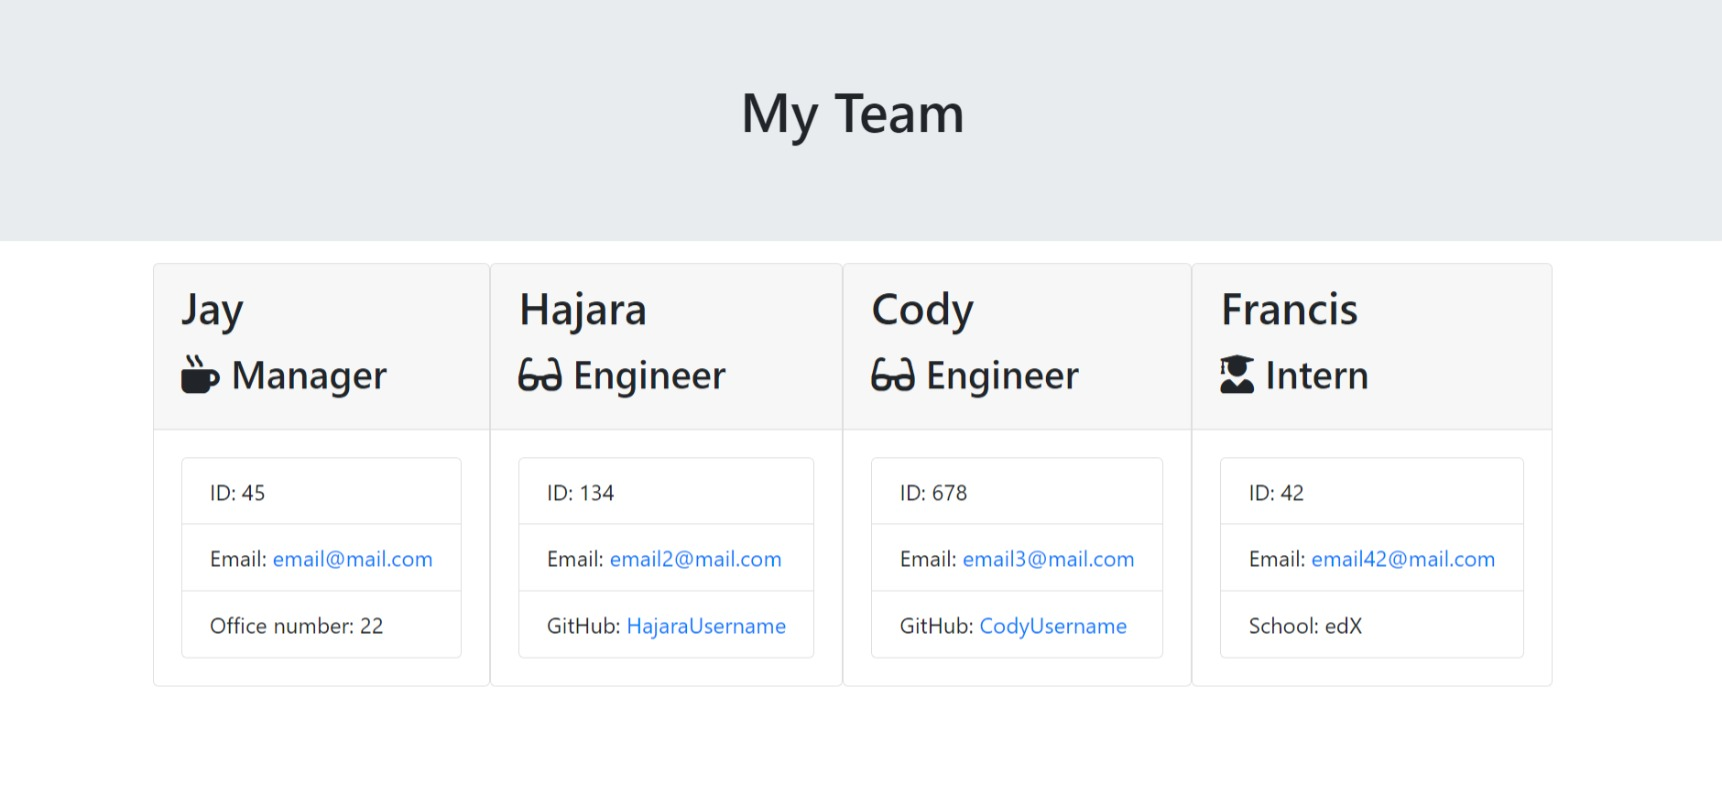
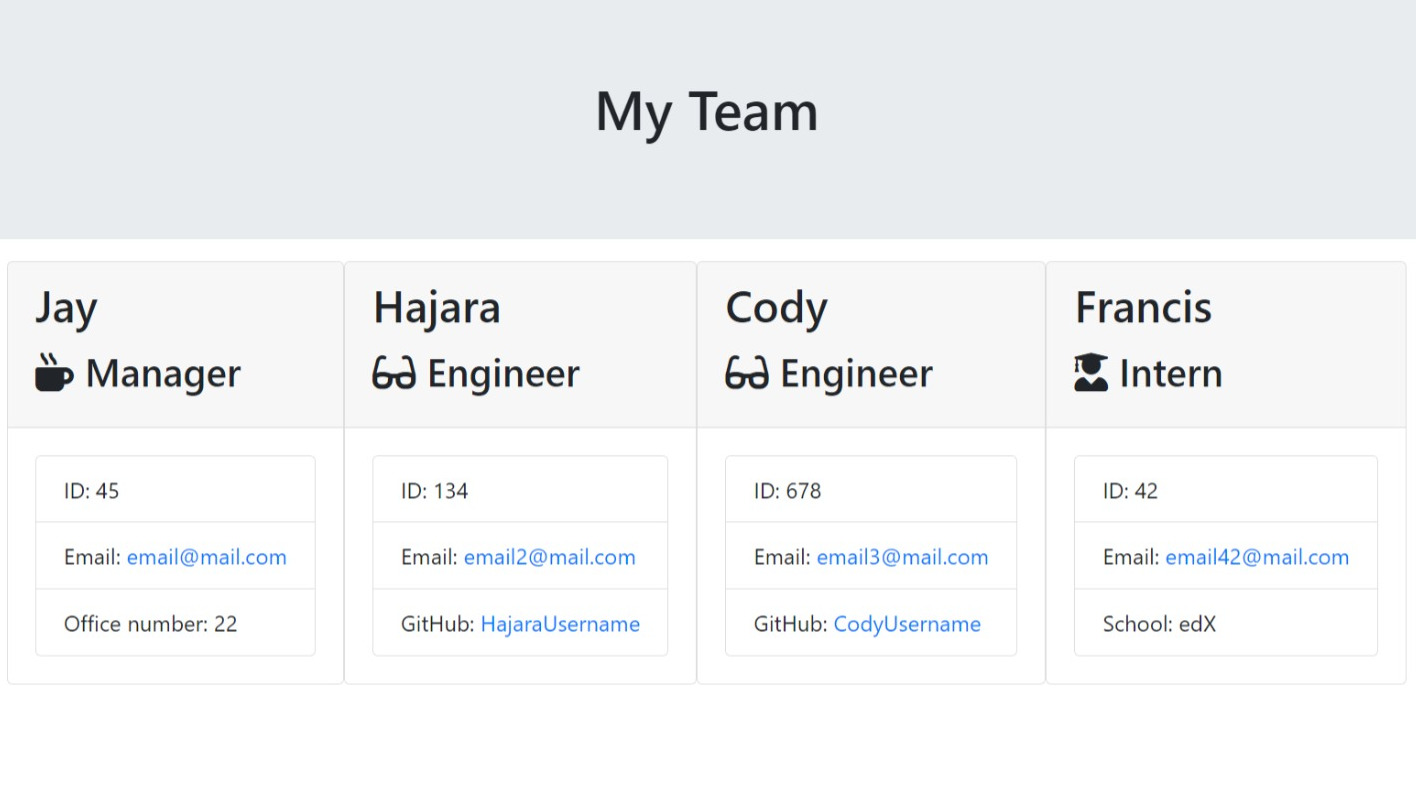
Added some projects to the portfolio page.

diff --git a/src/components/Card/index.jsx b/src/components/Card/index.jsx
@@ -3,11 +3,11 @@ import "./style.css";
 
 const styles = {
   card: {
-    margin: 20,
+    margin: 5,
     background: "#e8eaf6",
   },
   heading: {
-    background: "#9373BA",
+    background: "",
     minHeight: 50,
     lineHeight: 3.5,
     fontSize: "1.2rem",
@@ -15,30 +15,40 @@ const styles = {
     padding: "0 20px"
   },
   content: {
-    padding: 20
+    padding: 5
   }
 };
 
 function Card(props) {
   return (
-<div className="cards col-lg-4 col-md-4 col-sm-12">
+<div className="cards">
     <div className="card">
-        <div className="img-container">
-        <img
+        <div className="img-container">      
+        <img className="card-img-top"
         alt= {props.title}
         src= {props.image}
         />
         </div>
-      <div className="content">
+      <div className="card-body">
       <ul>
-        <li>
+        <li className="card-title">
           <strong>Title:</strong> {props.title}
         </li>
-        <li>
+        <li className="card-text">
           <strong>Description:</strong> {props.description}
         </li>
         <li>
-          <strong>Github repo:</strong> {props.github}
+        <a
+              href={props.github}
+              target="_blank"
+              className="">
+              <span className="sr-only">GitHub</span>
+              <svg className="" width="24" height="24" viewBox="0 0 24 24"
+                fill="" xmlns="http://www.w3.org/2000/svg">
+                <path
+                  d="M12 2C6.477 2 2 6.484 2 12.017c0 4.425 2.865 8.18 6.839 9.504.5.092.682-.217.682-.483 0-.237-.008-.868-.013-1.703-2.782.605-3.369-1.343-3.369-1.343-.454-1.158-1.11-1.466-1.11-1.466-.908-.62.069-.608.069-.608 1.003.07 1.531 1.032 1.531 1.032.892 1.53 2.341 1.088 2.91.832.092-.647.35-1.088.636-1.338-2.22-.253-4.555-1.113-4.555-4.951 0-1.093.39-1.988 1.029-2.688-.103-.253-.446-1.272.098-2.65 0 0 .84-.27 2.75 1.026A9.564 9.564 0 0112 6.844c.85.004 1.705.115 2.504.337 1.909-1.296 2.747-1.027 2.747-1.027.546 1.379.202 2.398.1 2.651.64.7 1.028 1.595 1.028 2.688 0 3.848-2.339 4.695-4.566 4.943.359.309.678.92.678 1.855 0 1.338-.012 2.419-.012 2.747 0 .268.18.58.688.482A10.019 10.019 0 0022 12.017C22 6.484 17.522 2 12 2z" />
+              </svg>
+            </a>
         </li>
       </ul>
       </div>

diff --git a/src/components/pages/Portfolio.jsx b/src/components/pages/Portfolio.jsx
@@ -11,24 +11,62 @@ function Portfolio() {
     <div>
       <Wrapper>
       <Title>Portfolio</Title>
+      <div className='container'>
+      <div className="cards col-lg-12 col-md-12 col-sm-12">
+      <div className='row'>
+        <div className='col-lg-4 col-md-4 col-sm-12'>
       <Card
         title={projects[1].title}
         image={projects[1].image}
         description={projects[1].description}
         github={projects[1].github}
       />
+      </div>
+      <div className='col-lg-4 col-md-4 col-md-4 sm-12'>
       <Card
         title={projects[2].title}
         image={projects[2].image}
         description={projects[2].description}
         github={projects[2].github}
       />
+      </div>
+      <div className='col-lg-4 col-md-4 col-md-4 sm-12'>
       <Card
         title={projects[3].title}
         image={projects[3].image}
         description={projects[3].description}
         github={projects[3].github}
       />
+      </div>
+      </div>
+      <div className='row'>
+      <div className='col-lg-4 col-md-4 col-md-4 sm-12'>
+       <Card
+        title={projects[4].title}
+        image={projects[4].image}
+        description={projects[4].description}
+        github={projects[4].github}
+      />
+      </div>
+      <div className='col-lg-4 col-md-4 sm-12'>
+      <Card
+        title={projects[5].title}
+        image={projects[5].image}
+        description={projects[5].description}
+        github={projects[5].github}
+      />
+      </div>
+      <div className='col-lg-4 col-md-4 sm-12'>
+      <Card
+        title={projects[6].title}
+        image={projects[6].image}
+        description={projects[6].description}
+        github={projects[6].github}
+      />
+      </div>
+      </div>
+      </div>
+        </div>
       </Wrapper>
     </div>
   );

diff --git a/src/components/pages/Home.jsx b/src/components/pages/Home.jsx
@@ -8,18 +8,33 @@ import projects from "../../projects.json";
 function Home() {
   return (
     <div className="pages">
-      <div className="cards container">
       <Wrapper>
-      <Title>Hi, I am Francis Wilkinson</Title>
-      <Card
-        title={projects[0].title}
-        image={projects[0].image}
-        description={projects[0].description}
-        github={projects[0].github}
-      />
+      <Title></Title>
+      <div className="container">
+        <div className="row">
+          <div className="card mb-3">
+            <div className="row g-0">
+              <div className="col-md-4">
+                <Card className=""
+                  title={projects[0].title}
+                  image={projects[0].image}
+                 description={projects[0].description}
+                 github={projects[0].github}
+                />
+              </div>
+              <div className="col-md-8">
+                <div className="card-body">
+                  <h2 className="card-title">Welcome to my React Web Developer Portfolio Site!</h2>
+                  <h5 className="card-text">Hi, I am Francis. I'm a Trainee Full Stack Web Developer.</h5>
+                  <p className="card-text"><small className="text-muted">Looking for new & challenging roles.</small></p>
+                </div>
+              </div>
+            </div>
+          </div>
+        </div>
+      </div>
       </Wrapper>
       </div>
-    </div>
   );
 }
 

diff --git a/src/styles/pages.css b/src/styles/pages.css
@@ -36,19 +36,20 @@ html,
   h5,
   h6 {
     font-family: 'Times New Roman', Times, serif;
+    margin-top: auto;
     font-weight: 200;
     letter-spacing: 1px;
-    color: var(--lgreen);
     text-align: center;
+
   }
   
   p {
-    font-size: 12px;
+    font-size: 14px;
     line-height: 1.5;
     text-align: center;
     margin:auto;
   }
-  
+
   section {
     padding: 20px 0;
   }
@@ -57,7 +58,7 @@ html,
     font-size: 30px;
   }
 
-.contact-section {
+  .contact-section {
     padding-top: 5rem;
   }
   .contact-section .card {
@@ -75,6 +76,8 @@ html,
   }
   .contact-section .social {
     margin-top: 1rem;
+    color: #9AB973;
+
   }
   
   .contact-section .social a {
@@ -84,6 +87,8 @@ html,
     background: #EDF4F5;
     border-radius: 100%;
     line-height: 3rem;
+    color: #9AB973;
+
   }
   .contact-section .social a:hover {
     color: #EDF4F5;

diff --git a/src/components/Card/style.css b/src/components/Card/style.css
@@ -1,17 +1,14 @@
 .cards {
     display: flex;
-    flex-direction: row;  
     flex-wrap: wrap;
     margin-bottom: 10px;
 }
 
 .card {
     background: #bfc1c1;
-    border-radius: 2px;
-    margin: 1rem;
+    margin: 1em;
     flex-direction: row;
     box-shadow: 2px 2px 7px 1px #9AB973;
-    text-align: left;
     max-height: 100%;
   }
 
@@ -20,20 +17,15 @@
   }
   
   .card > .img-container {
-    height: 50%;
-    min-height: 300px;
     overflow: hidden;
-    text-align: center;
     background:#ffffff;
   }
 
   .card > .img-container > img {
     width: 100%;
-    min-height: 60%;
   }
   
   .card > .content {
-    padding-left: 1rem;
     padding-right: 1rem;
     font-size: 12px;
   }
@@ -43,6 +35,8 @@
   }
   
   .card > .content > ul > li {
-    margin-top: 18px;
+    margin: auto;
+    margin-top: 1em;
+    align-items: baseline;
   }
 

diff --git a/src/components/pages/About.jsx b/src/components/pages/About.jsx
@@ -9,10 +9,10 @@ function About() {
     <div className='container'>
       <Wrapper>
       <Title>About</Title>
-      <p>Trainee Full Stack Web Developer with a Bachelor of Science in Mathematics, a double minor in Computer Science and Biological Sciences, and a work background in Web Design/Development. I have recently been doing a 16 week bootcamp in Frontend Web Development to learn more Javascript and modern forms of Web Development.</p>
+      <p>I have recently been doing a 16 week bootcamp in Frontend Web Development to learn more Javascript and other modern forms of Web Development.</p>
       <JSXVariables />
       <p>
-        HTML5, CSS, Javascript, Git, Bootstrap, jQuery, NodeJS, React
+        Skills: HTML5, CSS, Javascript, Git, Bootstrap, jQuery, NodeJS, React
       </p>
     </Wrapper>
     </div>

diff --git a/src/styles/Navbar.css b/src/styles/Navbar.css
@@ -36,7 +36,7 @@ align-content: space-evenly;
 
 .navbar a {
   color: #9AB973;
-  font-size: 12px;
+  font-size: 14px;
   text-decoration: none;
   margin: auto;
   line-height: 1;
@@ -58,7 +58,7 @@ align-content: space-evenly;
 }
 
 .navbar > li > a {
-  font-size: 11px;
+  font-size: 14px;
   font-family: 'Times New Roman', Times, serif;
   letter-spacing: 2px;
   text-transform: uppercase;

diff --git a/src/components/NavTabs.jsx b/src/components/NavTabs.jsx
@@ -47,16 +47,6 @@ function NavTabs() {
           Contact
         </NavLink>
       </li>
-      <li className="nav-item">
-        <NavLink
-          to="contact/learn"
-          className={({ isActive }) =>
-            isActive ? 'nav-link active' : 'nav-link'
-          }
-        >
-          More Info.
-        </NavLink>
-      </li>
     </ul>
   );
 }
